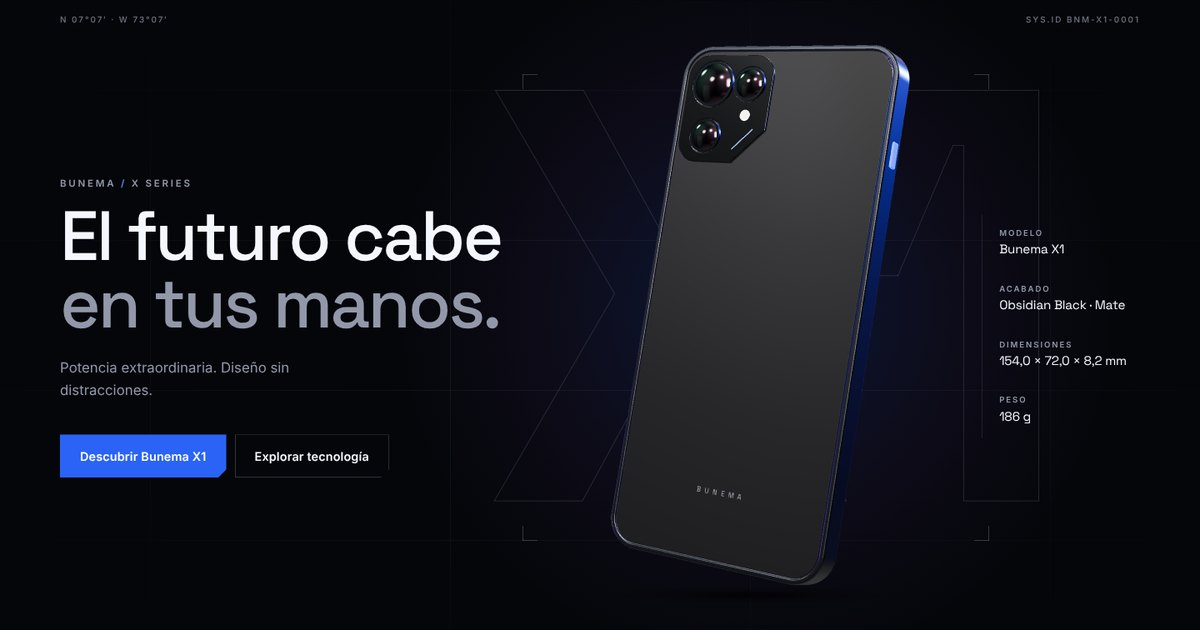
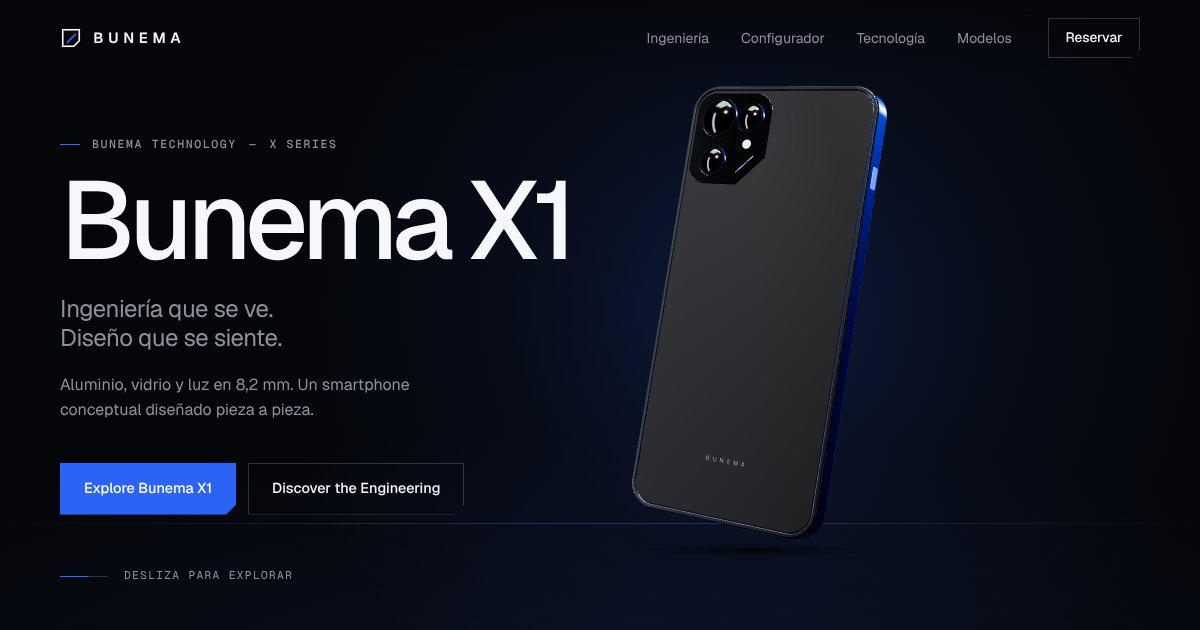
docs: README del Bunema X1, capturas nuevas e imagen para redes

diff --git a/README.md b/README.md
@@ -1,87 +1,96 @@
-# BUNEMA · The iPhone Experience
+# BUNEMA TECHNOLOGY · Bunema X1
 
-**Technology Beyond Limits.** Plataforma web premium dedicada al universo iPhone para el mercado colombiano: presentación cinematográfica en 3D, catálogo completo por generaciones, fichas técnicas verificadas, configurador 3D, comparador, galería tecnológica, tienda con carrito en pesos colombianos y panel administrativo.
+**Tecnología que se siente.** Experiencia web de producto para el **Bunema X1**, el smartphone de una marca conceptual: modelo 3D construido por código, despiece pieza a pieza controlado por scroll, configurador de color y acabado, especificaciones en composición editorial, comparador de la familia X Series y una reserva de demostración.
 
-Proyecto de **Sebastián Jaimes**.
+Proyecto de portafolio de **Sebastián Jaimes**.
 
 > **Sitio:** [sebastianjaimesr.github.io/BUNEMA-TECNOLOGY](https://sebastianjaimesr.github.io/BUNEMA-TECNOLOGY/) · **Repositorio:** [github.com/sebastianjaimesr/BUNEMA-TECNOLOGY](https://github.com/sebastianjaimesr/BUNEMA-TECNOLOGY)
 
-> BUNEMA es una tienda independiente. No es Apple Inc. ni distribuidor autorizado de Apple. iPhone es una marca registrada de Apple Inc.
+> BUNEMA TECHNOLOGY es una marca ficticia. El Bunema X1, sus especificaciones y sus precios no existen comercialmente.
 
-![Inicio: el iPhone 18 Pro Max en 3D bajo el titular «El futuro está en tus manos.»](docs/capturas/inicio.jpg)
+![Hero: el Bunema X1 en 3D bajo una luz azul, junto al titular «Bunema X1»](docs/capturas/bunema-x1/hero.jpg)
 
-## Qué incluye
+## Recorrido
 
-| Sección | Ruta | Qué hace |
+| Sección | Ancla | Qué hace |
 | --- | --- | --- |
-| Inicio | `#/` | iPhone 18 Pro Max en 3D con entrada animada, parallax con el ratón y recorrido por scroll (frontal → lateral → trasera) con datos oficiales. Línea actual de Apple, cifras del 18 Pro, recorrido horizontal por generaciones. |
-| Catálogo | `#/catalogo` | 42 modelos, del iPhone 7 al iPhone 18 Pro Max y el iPhone Duo, agrupados por generación. Buscador en tiempo real y filtros por generación, familia, estado en Apple (vigente/descontinuado), condición (nuevo/usado/reacondicionado), disponibilidad, almacenamiento, color y precio. Los filtros viajan en la URL. Archivo histórico desde el iPhone de 2007. |
-| Ficha | `#/iphone/<id>` | Configurador 3D (girar con ratón o gestos, acercar, vistas frontal/trasera/lateral/cámaras, rotación automática, inspección de materiales), selección de color, almacenamiento, condición y cantidad, precio de la combinación exacta, ficha técnica completa con su fuente oficial. |
-| Comparador | `#/comparar?m=a,b,c` | Hasta tres modelos lado a lado; marca las filas con diferencias y el mejor valor numérico; «solo diferencias»; enlace para compartir. |
-| Galería tecnológica | `#/galeria` | Un capítulo visual por generación con parallax, filtro por tema (cámaras, pantallas, materiales, procesadores, diseño, conectividad). |
-| Carrito y pedido | `#/carrito`, `#/pedido/<id>` | Cantidades, total en COP, productos con precio por confirmar, formulario validado y solicitud de pedido con número. Envío por WhatsApp, correo o endpoint, impresión/PDF. **No hay cobros**: la solicitud se confirma con la tienda. |
-| Contacto | `#/contacto` | Consulta de disponibilidad, prellenada desde la ficha. |
-| Panel administrativo | `admin.html` | Productos, inventario y precios, pedidos y consultas, imágenes y modelos 3D, ajustes (WhatsApp, correo, pasarela), estadísticas y publicación de `store.json`. |
-| BUNEMA Lab | `concepto-x1.html` | La experiencia anterior del teléfono conceptual Bunema X1, conservada y marcada como concepto. |
+| Hero | `#inicio` | El X1 entra girando cuando la escena está lista; sigue al cursor, flota y se gira con el dedo en móvil. Dos acciones: *Explore Bunema X1* y *Discover the Engineering*. |
+| Ingeniería | `#ingenieria` | Despiece de las 11 piezas del modelo sincronizado con el scroll, en 9 pasos, con etiquetas técnicas ancladas a cada pieza, indicador de progreso y control manual (anterior, siguiente y un botón por paso). |
+| Configurador | `#configurador` | 4 colores y 2 acabados que cambian los materiales del mismo modelo 3D; vistas trasera/lateral/frontal, giro con arrastre o flechas del teclado, rotación automática y *Restablecer*. |
+| Tecnología | `#tecnologia` | Pantalla, procesador, cámara, batería, materiales, diseño y rendimiento en una composición editorial. |
+| Cámara | `#camara` | Demo simulada en Canvas 2D: zoom de 0,5× a 10×, modo noche y comparación con divisor. No usa la cámara del dispositivo. |
+| Modelos | `#modelos` | X1, Pro y Lite en 3D a escala real con giro sincronizado y una comparación de 7 filas; el X1 conserva el protagonismo. |
+| Reserva | `#reserva` | Cierre con formulario validado y accesible. Es una demostración: no hay servidor ni cobros. |
 
 <table>
   <tr>
-    <td><img src="docs/capturas/catalogo.jpg" alt="Catálogo con filtros y tarjetas por generación" /></td>
-    <td><img src="docs/capturas/ficha-3d.jpg" alt="Ficha del iPhone 18 Pro Max en Borgoña con el configurador 3D" /></td>
+    <td><img src="docs/capturas/bunema-x1/despiece.jpg" alt="Despiece completo del Bunema X1 con etiquetas técnicas" /></td>
+    <td><img src="docs/capturas/bunema-x1/configurador.jpg" alt="Configurador con colores, acabados y vistas" /></td>
   </tr>
   <tr>
-    <td><img src="docs/capturas/comparador.jpg" alt="Comparador entre iPhone 18 Pro Max, 18 Pro y 17 Pro Max" /></td>
-    <td><img src="docs/capturas/galeria.jpg" alt="Galería tecnológica: capítulo del iPhone 18 Pro y el iPhone Duo" /></td>
-  </tr>
-  <tr>
-    <td><img src="docs/capturas/carrito.jpg" alt="Carrito con resumen del pedido" /></td>
-    <td><img src="docs/capturas/admin.jpg" alt="Acceso al panel administrativo" /></td>
+    <td><img src="docs/capturas/bunema-x1/tecnologia.jpg" alt="Especificaciones en composición editorial" /></td>
+    <td><img src="docs/capturas/bunema-x1/modelos.jpg" alt="Comparación entre X1, Pro y Lite" /></td>
   </tr>
 </table>
 
-<p>
-  <img src="docs/capturas/movil-inicio.jpg" width="260" alt="Inicio en móvil" />
-  <img src="docs/capturas/movil-catalogo.jpg" width="260" alt="Catálogo en móvil a dos columnas" />
-</p>
+<p><img src="docs/capturas/bunema-x1/movil.jpg" width="260" alt="Hero en móvil" /></p>
 
-## Datos y verificación
+## Tecnologías
 
-- **Especificaciones** (`src/data/iphones.js`): una sola base de datos para catálogo, fichas, comparador, galería, carrito y panel. Se revisaron el 2 de noviembre de 2026 contra el comparador oficial de Apple Colombia (<https://www.apple.com/co/iphone/compare/>) y las páginas de especificaciones del iPhone Duo, iPhone 18 Pro / Pro Max, iPhone 17e y iPhone 16. Cada modelo guarda su fuente y la ficha la muestra.
-- **Nombres de colores**: los oficiales. Las muestras y el 3D usan tonos aproximados (se indica en la ficha).
-- **Precios, inventario y canales** (`public/data/store.json`): vacíos por defecto. Nada se inventa: sin precio se muestra «Precio a consultar» y sin WhatsApp configurado el botón lleva al formulario de contacto.
-- **Imágenes**: este entorno no tuvo acceso a los servidores de imágenes de Apple, así que **no se descargaron fotografías oficiales**. Cada modelo y color muestra un **render 3D** generado con el mismo modelo del visor (medidas oficiales, módulo de cámaras, acabado), marcado «Render 3D ilustrativo · foto oficial pendiente». Los renders se regeneran con `npm run renders` (requiere Playwright con Chromium) y quedan en `public/assets/renders/`. La lista está en [`docs/RECURSOS-PENDIENTES.md`](docs/RECURSOS-PENDIENTES.md).
-- **3D**: modelo paramétrico generado con Three.js a partir de las **medidas oficiales** y el diseño del módulo de cámaras de cada modelo; se rotula como ilustrativo. El visor carga un `.glb` real si se registra en el panel.
+- **Vite 8** (build y servidor de desarrollo), JavaScript con módulos ES, sin framework.
+- **Three.js** para el modelo y la escena; **GSAP + ScrollTrigger** para la entrada y el scroll.
+- CSS propio con variables de diseño; tipografías **Geist** y **Geist Mono** (Google Fonts).
+
+## Identidad visual
+
+| Token | Valor | Uso |
+| --- | --- | --- |
+| Fondo | `#05060A` | Base de toda la página |
+| Azul eléctrico | `#2F6BFF` | Acciones, progreso, luz de contorno del 3D |
+| Blanco | `#F5F7FA` | Texto principal |
+| Gris metálico | `#8B929E` | Texto secundario, marco Titanium Gray |
+| Superficies | `#0A0C12` · `#10131B` · `#171B25` | Secciones alternas, paneles y estados |
+
+La firma de la marca es el **Corte X**: la esquina a 45° de la placa de cámara, que se repite en los botones, el panel de reserva y el logotipo.
 
 ## Arquitectura
 
 ```
-index.html            Tienda (SPA con rutas #/…)
-admin.html            Panel administrativo (entrada independiente)
-concepto-x1.html      BUNEMA Lab · concepto Bunema X1
-public/
-  data/store.json     Precios, inventario, canales, fotos (lo edita el panel)
-  assets/images/…     Fotografías por modelo (pendientes)
-  assets/models-3d/   Modelos .glb opcionales
-src/
-  main.js · router.js           Arranque y enrutador por hash (import() por página)
-  config/site.config.js         Marca y valores por defecto
-  data/                         iphones.js (42 modelos) · generations.js (galería)
-  services/                     catálogo, tienda, carrito, pedidos, contacto, comparador,
-                                estadísticas, formato COP, almacenamiento, pago (preparado)
-  components/                   cabecera, tarjeta, ilustraciones SVG, bandeja del comparador,
-                                formularios, avisos
-  pages/                        home, catalog, product, compare, gallery, cart, order,
-                                contact, legal, notFound
-  three/                        PhoneModel (paramétrico) · PhoneViewer (visor reutilizable)
-  animations/                   GSAP + ScrollTrigger, apariciones al desplazarse
-  admin/                        panel
-  styles/                       tokens, base, layout, componentes y una hoja por página
-  concepto-x1/                  código del Bunema X1
+index.html                  Bunema X1 (experiencia principal)
+tienda.html · admin.html    Archivo: The iPhone Experience (proyecto anterior) y su panel
+concepto-x1.html            Redirección de la URL antigua del concepto a index.html
+src/concepto-x1/
+  main.js                   Orquesta: navegación, secciones y carga diferida del 3D
+  experience.js             Arranque de la escena (se descarga con import() dinámico)
+  scene/                    Renderer, estudio de luz (mapa de entorno), luces, sombra de contacto
+  models/                   BunemaPhone (11 piezas), materiales compartidos, texturas por código, LineupPhone
+  animations/               Hero, guion del despiece (función pura), scroll, configurador, vitrina
+  sections/                 Interfaz del configurador, comparador, demo de cámara y reserva (sin Three.js)
+  ui/                       Menú, control de pasos, etiquetas técnicas, apariciones, progreso de carga
+  data/products.js          Colores, acabados, modelos y especificaciones: fuente única
+  styles/                   Una hoja por sección + base y responsive
 ```
 
-Detalle técnico, limitaciones de GitHub Pages y la arquitectura de backend propuesta: [`docs/ARQUITECTURA.md`](docs/ARQUITECTURA.md).
+- **Un solo `WebGLRenderer` y un solo lienzo fijo** para toda la página: hero, despiece, configurador y vitrina mueven el mismo modelo (o los tres de la vitrina) en lugar de crear escenas nuevas.
+- **Renderizado bajo demanda**: solo se dibuja un fotograma cuando algo cambia; con la escena quieta el coste de GPU es cero. Fuera de las secciones con 3D el bucle se pausa.
+- **El despiece es una función pura del progreso de scroll** (`sequenceAt(p)`): subir, bajar o saltar con los botones produce siempre la misma pose.
+- **Interfaz desacoplada del 3D**: configurador, comparador y reserva funcionan sin WebGL; el 3D se suscribe a su estado cuando está listo.
 
-**Rendimiento**: cada página y su CSS se cargan bajo demanda; Three.js solo se descarga en las vistas con 3D; el visor dibuja únicamente cuando algo se mueve y se pausa fuera de pantalla; renders en WebP de unos 10 KB con carga diferida; `prefers-reduced-motion` desactiva el recorrido animado. Sin WebGL se muestran las ilustraciones de cada vista.
+## Rendimiento
+
+- Three.js (unos 150 kB gzip) **no bloquea el primer pintado**: se descarga con `import()` mientras el titular ya es visible. No hay pantalla de introducción que retrase el contenido.
+- Sin modelos ni texturas descargadas: geometría paramétrica y texturas dibujadas en `<canvas>` (0 peticiones de recursos 3D). El mapa de entorno se genera una vez en la GPU.
+- Materiales compartidos entre las piezas y entre los modelos de la vitrina; geometrías reutilizadas para componentes repetidos.
+- Pixel ratio limitado (1,75 en móvil, 2 en escritorio) y animación ambiental a 30 FPS en móvil.
+- Recuperación de contexto WebGL perdido y liberación de geometrías, materiales y texturas al desmontar.
+
+## Accesibilidad
+
+- Navegación completa por teclado, foco visible, enlace para saltar al contenido.
+- El giro del configurador es un `role="slider"` (flechas, Inicio y Fin) que anuncia los grados.
+- Radios nativos para color y acabado, `aria-pressed` en vistas, `aria-current` en el paso activo del despiece, regiones `aria-live` para los cambios.
+- `prefers-reduced-motion`: sin flotación, sin transiciones y despiece estático con todas las etiquetas.
+- Sin WebGL: ilustraciones SVG que siguen al configurador y la ficha de piezas visible.
 
 ## Ejecutar en local
 
@@ -94,23 +103,20 @@ npm install
 npm run dev          # http://localhost:5173
 npm run build        # genera dist/
 npm run preview      # sirve dist/ en http://localhost:4173
-npm run renders      # regenera los renders 3D (npm i -D playwright && npx playwright install chromium)
 ```
-
-Panel: `http://localhost:5173/admin.html` (la primera vez pide crear un PIN).
 
 ## Publicar en GitHub Pages
 
-1. **Settings → Pages → Source: GitHub Actions** (ya configurado).
-2. Cada push a `main` ejecuta `.github/workflows/deploy.yml`: `npm ci`, `npm run build` y despliegue de `dist/`.
-3. Para publicar precios, inventario, WhatsApp o fotos: en `admin.html` → **Publicar → Descargar store.json**, y sustituir `public/data/store.json` en `main`. El sitio se actualiza en unos minutos.
+1. En el repositorio: **Settings → Pages → Source: GitHub Actions** (ya configurado).
+2. Cada push a `main` ejecuta `.github/workflows/deploy.yml`: `npm ci`, `npm run build` y despliegue de `dist/`. En los pull requests solo se ejecuta el build.
+3. `vite.config.js` usa `base: './'`, así el mismo `dist/` funciona en la raíz o en `/BUNEMA-TECNOLOGY/`.
 
-## Pendiente y dependencias
+## Archivo: The iPhone Experience
 
-| Pendiente | Depende de |
-| --- | --- |
-| Fotografías oficiales de cada modelo | Descargar los recursos de prensa con permiso de uso y guardarlos en `public/assets/images/<modelo>/` |
-| Precios, inventario, número de WhatsApp, correo | Datos del negocio (panel → Publicar) |
-| Cobros en línea | Backend + cuenta en Wompi, ePayco o Mercado Pago |
-| Pedidos centralizados, autenticación segura, varios administradores | Backend con base de datos (ver `docs/ARQUITECTURA.md`) |
-| Modelos 3D `.glb` detallados | Archivos con licencia de uso |
+El proyecto anterior (catálogo de iPhone en COP, fichas 3D, comparador, carrito y panel) sigue disponible en [`tienda.html`](https://sebastianjaimesr.github.io/BUNEMA-TECNOLOGY/tienda.html). Los enlaces antiguos del tipo `/#/catalogo` redirigen allí. Su documentación técnica está en [`docs/ARQUITECTURA.md`](docs/ARQUITECTURA.md) y [`docs/RECURSOS-PENDIENTES.md`](docs/RECURSOS-PENDIENTES.md); se regeneran sus renders con `npm run renders`.
+
+## Limitaciones conocidas
+
+- El modelo 3D es paramétrico (geometría generada por código), no un CAD ni un escaneo: es una representación conceptual y así se indica en la página.
+- La demo de cámara es una ilustración con filtros; no realiza fotografía computacional.
+- La reserva es una demostración sin servidor: los datos se borran al recargar.

diff --git a/docs/ARQUITECTURA.md b/docs/ARQUITECTURA.md
@@ -1,10 +1,12 @@
-# Arquitectura de BUNEMA · The iPhone Experience
+# Arquitectura de BUNEMA · The iPhone Experience (archivo)
+
+> Este documento describe el proyecto anterior, que ahora vive en `tienda.html`. La experiencia principal del sitio es el Bunema X1 (`index.html`); su arquitectura está en el README.
 
 ## 1. Situación actual (sitio estático en GitHub Pages)
 
 | Capa | Implementación | Límite honesto |
 | --- | --- | --- |
-| Interfaz | Vite + JavaScript modular, sin framework. Enrutador por hash (`#/ruta`) porque Pages no admite reescrituras de URL. | Las rutas internas no se indexan como páginas separadas. |
+| Interfaz | Vite + JavaScript modular, sin framework. Página `tienda.html` con enrutador por hash (`#/ruta`) porque Pages no admite reescrituras de URL. | Las rutas internas no se indexan como páginas separadas. |
 | 3D | Three.js (`src/three/`). Un visor reutilizable con controles táctiles, renderizado bajo demanda y recuperación de contexto WebGL. | Modelo paramétrico ilustrativo hasta tener `.glb` con licencia. |
 | Animación | GSAP + ScrollTrigger (`src/animations/`), contexto por página que se revierte al salir. | — |
 | Especificaciones | `src/data/iphones.js`, fuente única verificada con Apple Colombia. | Se actualiza con un cambio de código (o «Agregar iPhone» en el panel). |
